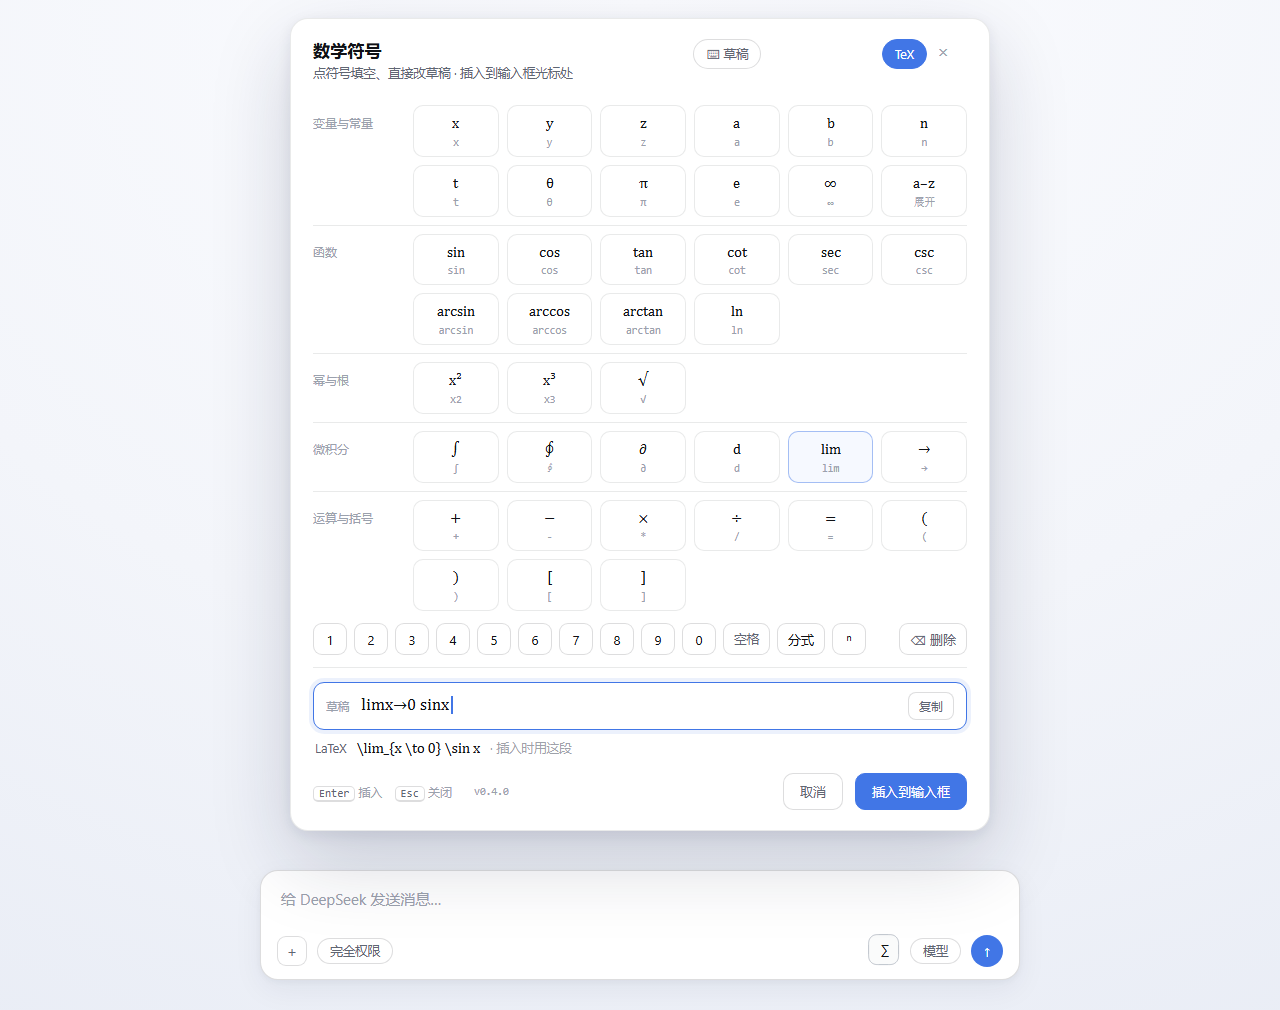
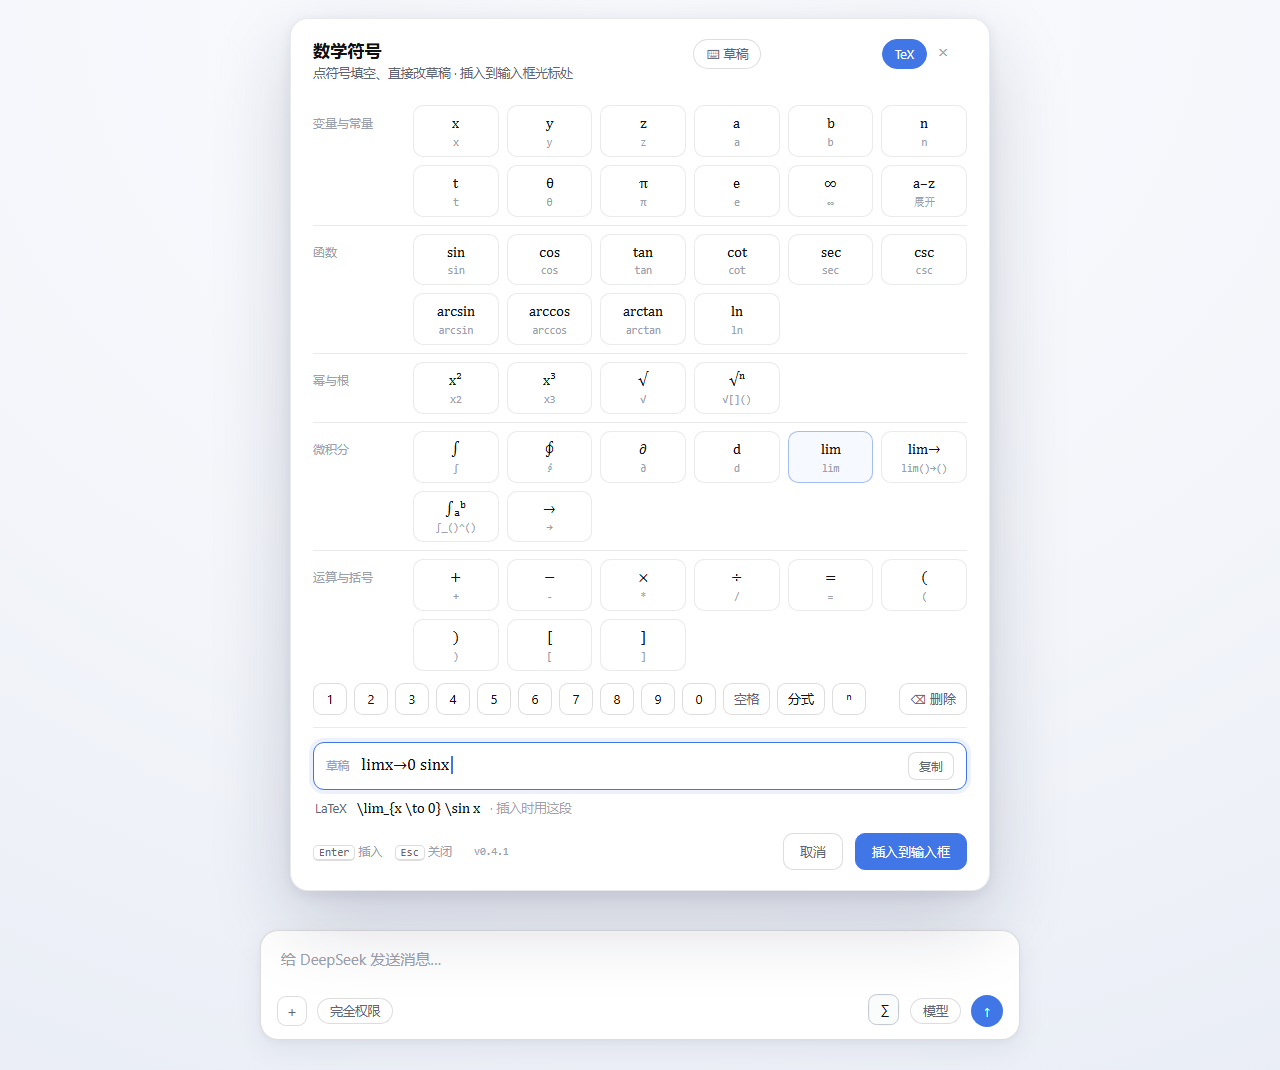
feat: 0.4.1 - lim/integral/nth-root templates and a floating insert toast

diff --git a/client.js b/client.js
@@ -4,7 +4,7 @@ window.__ModuleLoader__.load({
     const React = require('react');
     const h = React.createElement;
     // 与 package.json 的 version 保持一致：面板底部会显示它，用来确认页面里跑的是哪一版。
-    const VERSION = '0.4.0';
+    const VERSION = '0.4.1';
 
     // ---------------------------------------------------------------------
     // 符号表：面板渲染、LaTeX 转换都从这张表生成。加一个符号 = 加一行。
@@ -51,6 +51,7 @@ window.__ModuleLoader__.load({
           ['x²', 'x²', 'x^{2}'],
           ['x³', 'x³', 'x^{3}'],
           ['√', '√', '\\sqrt'],
+          ['√ⁿ', '√[]()', '\\sqrt[n]{}', 2],
         ],
       },
       {
@@ -62,6 +63,8 @@ window.__ModuleLoader__.load({
           ['∂', '∂', '\\partial'],
           ['d', 'd', 'd'],
           ['lim', 'lim', '\\lim'],
+          ['lim→', 'lim()→()', '\\lim_{} \\to ', 4],
+          ['∫ₐᵇ', '∫_()^()', '\\int_{}^{}', 3],
           ['→', '→', '\\to'],
         ],
       },
@@ -126,6 +129,8 @@ window.__ModuleLoader__.load({
     for (const group of GROUPS) {
       if (group.id === 'fn') continue;
       for (const item of group.items) {
+        // 函数名（含 lim）由正则单独处理，不能再进符号替换表，否则 \lim 会被二次转义成 \\lim
+        if (TOKEN_NAMES.includes(item[1])) continue;
         if (item[2] !== item[1] && item[2] !== '') LATEX_SYMBOLS.push([item[1], item[2]]);
       }
     }
@@ -239,10 +244,17 @@ window.__ModuleLoader__.load({
      */
     const toLatex = (raw) => {
       let out = raw;
+      // 模板填好后的写法
+      out = out.replace(/lim\(([^()]*)\)→\(([^()]*)\)/g,
+        (match, from, to) => '\\lim_{' + from.trim() + ' \\to ' + to.trim() + '}');
+      out = out.replace(/∫_\(([^()]*)\)\^\(([^()]*)\)/g,
+        (match, low, high) => '\\int_{' + low + '}^{' + high + '}');
+      out = out.replace(/√\[([^\]]*)\]\(([^()]*)\)/g,
+        (match, index, body) => '\\sqrt[' + index + ']{' + body + '}');
       // 分式模板 (分子)/(分母) → \frac{分子}{分母}
       out = out.replace(/\(([^()]*)\)\/\(([^()]*)\)/g, (match, numerator, denominator) => '\\frac{' + numerator + '}{' + denominator + '}');
       // 函数名：长名优先；后面紧跟字母/数字时补一个空格（\sin x 而不是 \sinx）
-      const fnRe = new RegExp('(?<!\\\\)(' + FUNCS.join('|') + ')', 'g');
+      const fnRe = new RegExp('(?<!\\\\)(' + TOKEN_NAMES.join('|') + ')', 'g');
       out = out.replace(fnRe, (match, _name, offset, whole) => {
         const next = whole[offset + match.length] ?? '';
         return '\\' + match + (/[a-zA-Z0-9]/.test(next) ? ' ' : '');
@@ -254,7 +266,7 @@ window.__ModuleLoader__.load({
       // lim 后面跟着含“→”的一段时才收进下标，避免把普通参数误当下标
       out = out.replace(/\\lim\s*([^\s$]*\\to[^\s$]*)/g, (match, sub) => '\\lim_{' + sub.replace(/\\to/g, ' \\to ') + '}');
       // √ 后面紧跟的一段收进花括号
-      out = out.replace(/\\sqrt([^\s$]+)/g, (match, body) => '\\sqrt{' + body + '}');
+      out = out.replace(/\\sqrt(?!\[)([^\s$]+)/g, (match, body) => '\\sqrt{' + body + '}');
       return out;
     };
 
@@ -494,6 +506,16 @@ window.__ModuleLoader__.load({
         background:var(--dsw-alias-interactive-bg-hover, rgba(38,49,72,.08))}
       .mss-key-clear{margin-left:auto;opacity:.75}
       .mss-flash{color:var(--dsw-alias-state-business-primary, #4176e6);font-weight:500}
+      .mss-draftrow{position:relative}
+      .mss-toast{position:absolute;left:6px;top:-26px;padding:4px 9px;border-radius:999px;
+        background:var(--dsw-alias-state-business-primary, #4176e6);color:#fff;font-size:11.5px;font-weight:500;
+        pointer-events:none;white-space:nowrap;animation:mss-toast 1.4s ease forwards}
+      @keyframes mss-toast{
+        0%{opacity:0;transform:translateY(4px)}
+        12%{opacity:1;transform:translateY(0)}
+        78%{opacity:1;transform:translateY(0)}
+        100%{opacity:0;transform:translateY(-4px)}
+      }
       .mss-copy{margin-left:8px;flex:none;border:1px solid var(--dsw-alias-border-l2, rgba(38,49,72,.18));
         border-radius:8px;background:transparent;color:var(--dsw-alias-label-secondary, #5c6470);
         font:inherit;font-size:12px;padding:5px 10px;cursor:pointer}
@@ -652,20 +674,20 @@ window.__ModuleLoader__.load({
       };
 
       const insertSnippet = (snippet) => {
-        if (state.direct) { insertDirect(snippet); flash('已输入 ' + snippet); return; }
+        if (state.direct) { insertDirect(snippet); flash('✅ 已插入 ' + snippet); return; }
         const start = caret();
         const end = caretEnd();
         replaceRange(start, end, snippet);
-        flash('已输入 ' + snippet);
+        flash('✅ 已插入 ' + snippet);
       };
 
       // 模板：插入一段文本，并把光标放到模板内部（例如分式的分子）。
       const insertTemplate = (template, offset) => {
-        if (state.direct) { insertDirect(template); flash('已输入 ' + template); return; }
+        if (state.direct) { insertDirect(template); flash('✅ 已插入模板'); return; }
         const start = caret();
         const end = caretEnd();
         replaceRange(start, end, template, start + offset);
-        flash('已插入模板');
+        flash('✅ 已插入模板');
       };
 
       const backspace = () => {
@@ -690,7 +712,7 @@ window.__ModuleLoader__.load({
       const sections = GROUPS.map((group) => ({
         id: group.id,
         name: group.name,
-        items: group.items.map((item) => ({ glyph: item[0], text: item[1] })),
+        items: group.items.map((item) => ({ glyph: item[0], text: item[1], offset: item[3] })),
       }));
       const letterCells = LETTERS.map((item) => ({ glyph: item[0], text: item[1] }));
 
@@ -770,7 +792,9 @@ window.__ModuleLoader__.load({
       const triggerItem = (si, index) => {
         if (si < GROUPS.length) {
           const items = GROUPS[si].items;
-          insertSnippet(items[Math.min(index, items.length - 1)][1]);
+          const item = items[Math.min(index, items.length - 1)];
+          if (item[3] === undefined) insertSnippet(item[1]);
+          else insertTemplate(item[1], item[3]);
           return;
         }
         const key = KEYS[Math.min(index, KEYS.length - 1)];
@@ -854,7 +878,8 @@ window.__ModuleLoader__.load({
                       onMouseEnter: () => patchPanel({ activeSection: section.id, focusIndex: index, mode: 'selected' }),
                       onClick: () => {
                         patchPanel({ activeSection: section.id, focusIndex: index, mode: 'selected' });
-                        insertSnippet(item.text);
+                        if (item.offset === undefined) insertSnippet(item.text);
+                        else insertTemplate(item.text, item.offset);
                       },
                     },
                       h('div', { className: 'mss-glyph' }, item.glyph),
@@ -932,6 +957,7 @@ window.__ModuleLoader__.load({
             },
               h('div', { className: 'mss-draftrow' },
                 h('span', { className: 'mss-drafttag' }, state.direct ? '已写入' : '草稿'),
+                state.flash === '' ? null : h('span', { className: 'mss-toast' }, state.flash),
                 state.direct
                   ? h('div', { className: 'mss-drafttext' },
                     state.chain.length === 0 ? '点符号，直接写进聊天框' : state.chain.join(''))
@@ -973,11 +999,9 @@ window.__ModuleLoader__.load({
                 reading === ''
                   ? h('span', { className: 'mss-note' }, state.direct ? '还没点任何符号' : '还没有内容')
                   : h('span', { className: 'mss-math' }, reading),
-                state.flash === ''
-                  ? h('span', { className: 'mss-note' }, state.latex
-                    ? '· 插入时用这段 LaTeX'
-                    : '· sin²x → (sin x)²　· e3 → e³　· x5 → x⁵')
-                  : h('span', { className: 'mss-flash' }, state.flash),
+                h('span', { className: 'mss-note' }, state.latex
+                  ? '· 插入时用这段 LaTeX'
+                  : '· sin²x → (sin x)²　· e3 → e³　· x5 → x⁵'),
               ),
             ),
             h('div', { className: 'mss-foot' },

diff --git a/docs/hero.html b/docs/hero.html
@@ -17,7 +17,7 @@
     font-family:"Segoe UI","Microsoft YaHei",system-ui,-apple-system,sans-serif;color:var(--ink);
     display:flex;align-items:center;justify-content:center;overflow:hidden;
   }
-  .scene{position:relative;width:1200px;height:1010px;display:flex;align-items:flex-end;justify-content:center;padding-bottom:30px}
+  .scene{position:relative;width:1200px;height:1070px;display:flex;align-items:flex-end;justify-content:center;padding-bottom:30px}
 
   /* composer (partly hidden behind the panel) */
   .composer{width:760px;background:var(--card);border:1px solid var(--line2);border-radius:18px;
@@ -153,6 +153,7 @@
             <div class="sym"><div class="g">x²</div><div class="c">x2</div></div>
             <div class="sym"><div class="g">x³</div><div class="c">x3</div></div>
             <div class="sym"><div class="g">√</div><div class="c">√</div></div>
+            <div class="sym"><div class="g">√ⁿ</div><div class="c">√[]()</div></div>
           </div>
         </div>
 
@@ -164,6 +165,8 @@
             <div class="sym"><div class="g">∂</div><div class="c">∂</div></div>
             <div class="sym"><div class="g">d</div><div class="c">d</div></div>
             <div class="sym hot"><div class="g">lim</div><div class="c">lim</div></div>
+            <div class="sym"><div class="g">lim→</div><div class="c">lim()→()</div></div>
+            <div class="sym"><div class="g">∫ₐᵇ</div><div class="c">∫_()^()</div></div>
             <div class="sym"><div class="g">→</div><div class="c">→</div></div>
           </div>
         </div>
@@ -210,7 +213,7 @@
 
       <div class="foot">
         <span class="hint"><span class="kbd">Enter</span> 插入　<span class="kbd">Esc</span> 关闭</span>
-        <span class="ver">v0.4.0</span>
+        <span class="ver">v0.4.1</span>
         <span class="spacer"></span>
         <button class="btn">取消</button>
         <button class="btn primary">插入到输入框</button>

diff --git a/CHANGELOG.md b/CHANGELOG.md
@@ -1,5 +1,12 @@
 # 变更记录：从 beta 到 v3.7 / 开源 0.2.x
 
+## 0.4.1
+
+- **模板符号（A 方案）**：`lim()→()`（光标落在 `(` 后）、`∫_()^()`（光标落在下标里）、`√[]()`（光标落在方括号里），分别放进「微积分」「幂与根」分区。
+- **模板的 LaTeX**：填好后自动转换——`lim(x)→(0) → \lim_{x \to 0}`、`∫_(0)^(1) → \int_{0}^{1}`、`√[3](x) → \sqrt[3]{x}`。
+- **插入提示改为草稿标签旁的浮动提示**：`✅ 已插入 sin`，1.4 秒内渐入、停留、渐出，不再放在下方“读作”行里。
+- 修掉 `lim` 被符号表二次转义成 `\\lim` 的问题；`lim` 统一交给函数名正则处理。
+
 ## 0.4.0
 
 - **方向键让位给光标**：鼠标停在草稿区时，方向键不再被面板抢走，交给输入框移动光标；鼠标在别处时仍然是格子导航。
